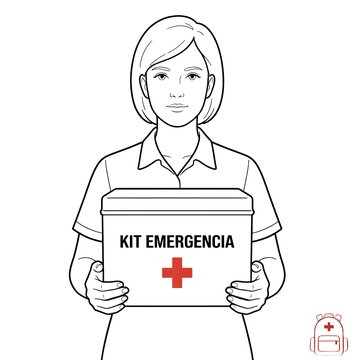
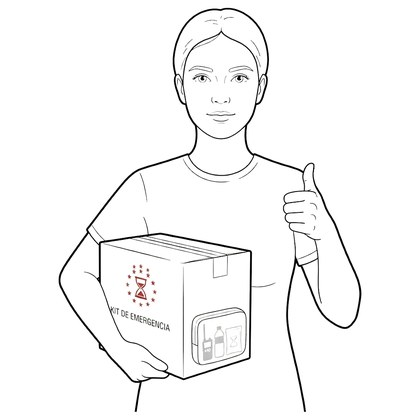
Paso 4: nueva ilustración (sin el OK ni la mochila roja)
Claude-Session: https://claude.ai/code/session_01V7PVvrC8Dt7YxBNA65S9m6

Changed region(s): [[0.1243, 0.0, 0.839, 1.0], [0.8701, 0.8556, 0.9944, 0.9778], [0.839, 0.6417, 0.8701, 0.7639]]

diff --git a/index.html b/index.html
@@ -300,7 +300,7 @@ footer .wrap { display: grid; gap: .6rem; }
         <a class="panel" href="#kits"><span class="num">1</span><img class="pic photo" src="paso1.jpg" alt="Persona de espaldas con la mochila de emergencia puesta" width="140" height="142"><p>Elige tu kit</p><small>Casa, coche o evacuación.</small></a>
         <a class="panel" href="#kits"><span class="num">2</span><img class="pic photo" src="paso2.jpg" alt="Persona con una mochila de tres módulos: Esencial, Completo y Total" width="140" height="140"><p>¿Esencial o Pro?</p><small>Esencial, Completo o Total.</small></a>
         <a class="panel" href="#kits"><span class="num">3</span><img class="pic photo" src="paso3.jpg" alt="Mano sujetando un móvil con el pedido del kit de emergencia" width="140" height="140"><p>Todo al carrito</p><small>Un clic y te creamos el pedido.</small></a>
-        <a class="panel" href="#reposicion"><span class="num">4</span><img class="pic photo" src="paso4.jpg" alt="Mujer sujetando una caja de kit de emergencia" width="140" height="142"><p>Recíbelo en casa</p><small>¡Estamos preparados!</small></a>
+        <a class="panel" href="#reposicion"><span class="num">4</span><img class="pic photo" src="paso4.jpg" alt="Mujer con una caja de kit de emergencia haciendo el gesto de OK con el pulgar" width="140" height="140"><p>Recíbelo en casa</p><small>¡Estamos preparados!</small></a>
       </div>
     </div>
   </div>

diff --git a/en.html b/en.html
@@ -300,7 +300,7 @@ footer .wrap { display: grid; gap: .6rem; }
         <a class="panel" href="#kits"><span class="num">1</span><img class="pic photo" src="paso1.jpg" alt="Person seen from behind wearing an emergency backpack" width="140" height="142"><p>Choose your kit</p><small>Home, car or evacuation.</small></a>
         <a class="panel" href="#kits"><span class="num">2</span><img class="pic photo" src="paso2.jpg" alt="Person wearing a three-module backpack: Essential, Complete and Total" width="140" height="140"><p>Essential or Pro?</p><small>Essential, Complete or Total.</small></a>
         <a class="panel" href="#kits"><span class="num">3</span><img class="pic photo" src="paso3.jpg" alt="Hand holding a phone with the emergency kit order" width="140" height="140"><p>All in the basket</p><small>One click and we build your order.</small></a>
-        <a class="panel" href="#reposicion"><span class="num">4</span><img class="pic photo" src="paso4.jpg" alt="Woman holding an emergency kit box" width="140" height="142"><p>Delivered to your door</p><small>We&#8217;re ready!</small></a>
+        <a class="panel" href="#reposicion"><span class="num">4</span><img class="pic photo" src="paso4.jpg" alt="Woman holding an emergency kit box and giving a thumbs-up" width="140" height="140"><p>Delivered to your door</p><small>We&#8217;re ready!</small></a>
       </div>
     </div>
   </div>

diff --git a/tools/build_en.py b/tools/build_en.py
@@ -46,7 +46,7 @@ TRADUCCIONES = [
     ('alt="Persona de espaldas con la mochila de emergencia puesta"', 'alt="Person seen from behind wearing an emergency backpack"'),
     ('alt="Persona con una mochila de tres módulos: Esencial, Completo y Total"', 'alt="Person wearing a three-module backpack: Essential, Complete and Total"'),
     ('alt="Mano sujetando un móvil con el pedido del kit de emergencia"', 'alt="Hand holding a phone with the emergency kit order"'),
-    ('alt="Mujer sujetando una caja de kit de emergencia"', 'alt="Woman holding an emergency kit box"'),
+    ('alt="Mujer con una caja de kit de emergencia haciendo el gesto de OK con el pulgar"', 'alt="Woman holding an emergency kit box and giving a thumbs-up"'),
     ('<p>Elige tu kit</p><small>Casa, coche o evacuación.</small>', '<p>Choose your kit</p><small>Home, car or evacuation.</small>'),
     ('<p>¿Esencial o Pro?</p><small>Esencial, Completo o Total.</small>', '<p>Essential or Pro?</p><small>Essential, Complete or Total.</small>'),
     ('<p>Todo al carrito</p><small>Un clic y te creamos el pedido.</small>', '<p>All in the basket</p><small>One click and we build your order.</small>'),
